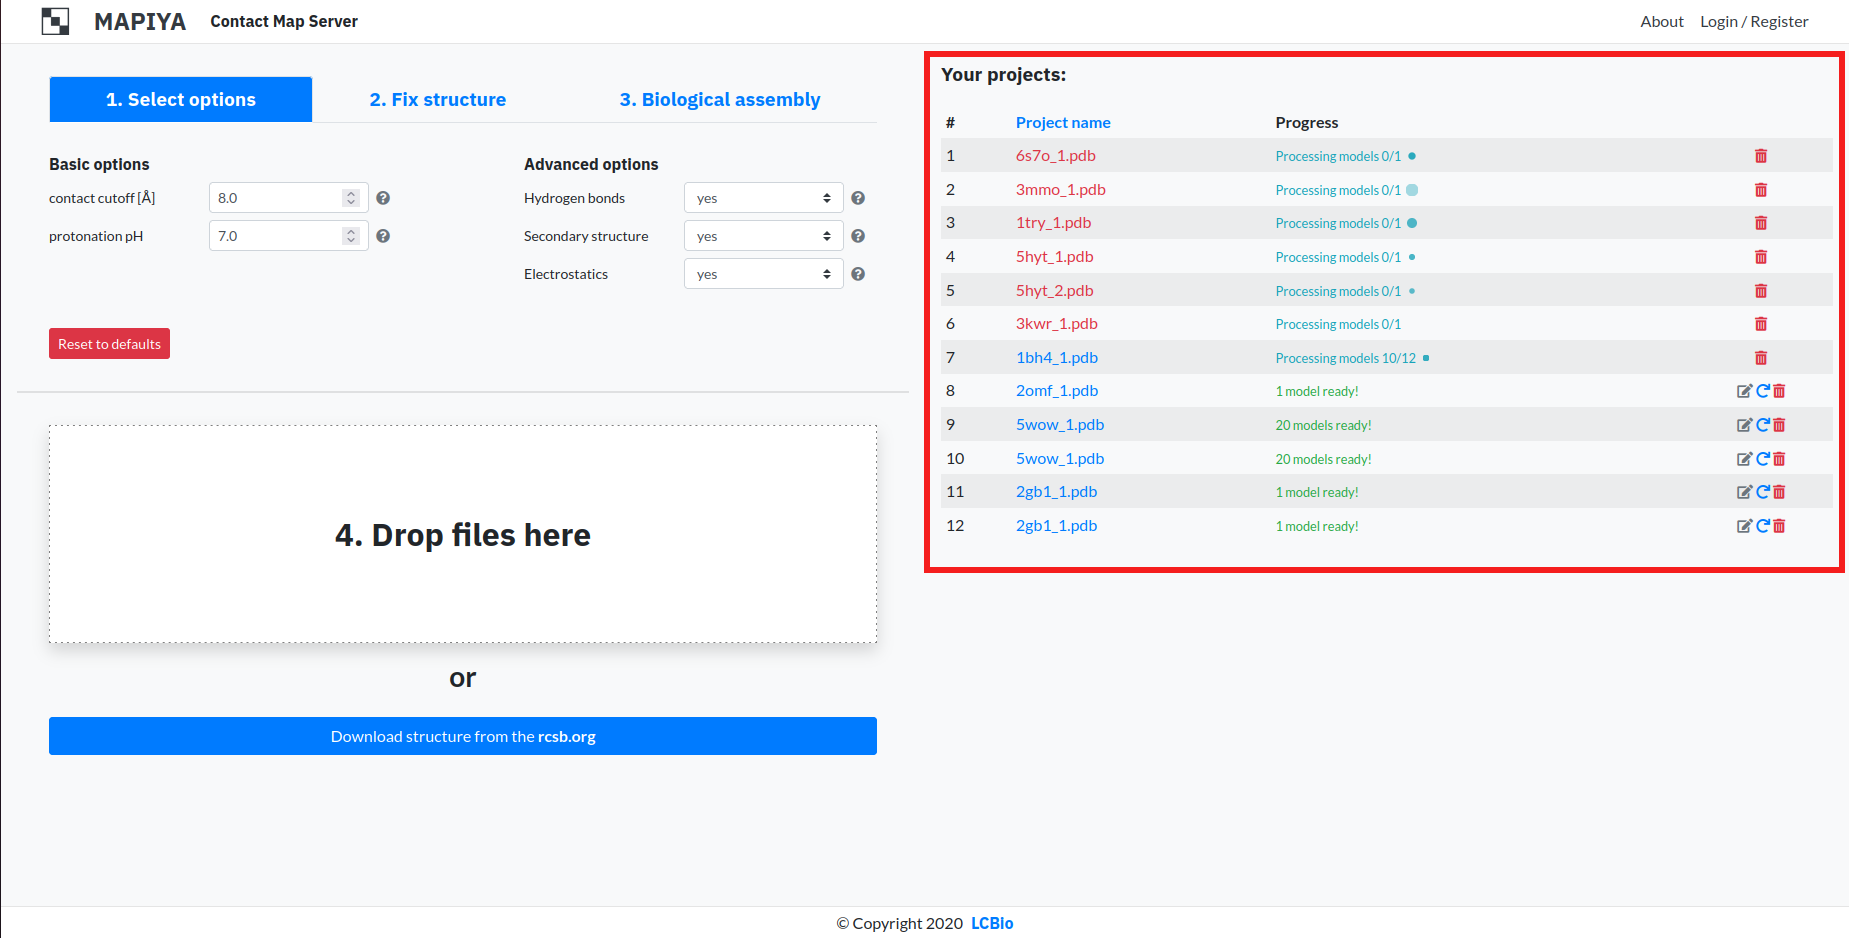
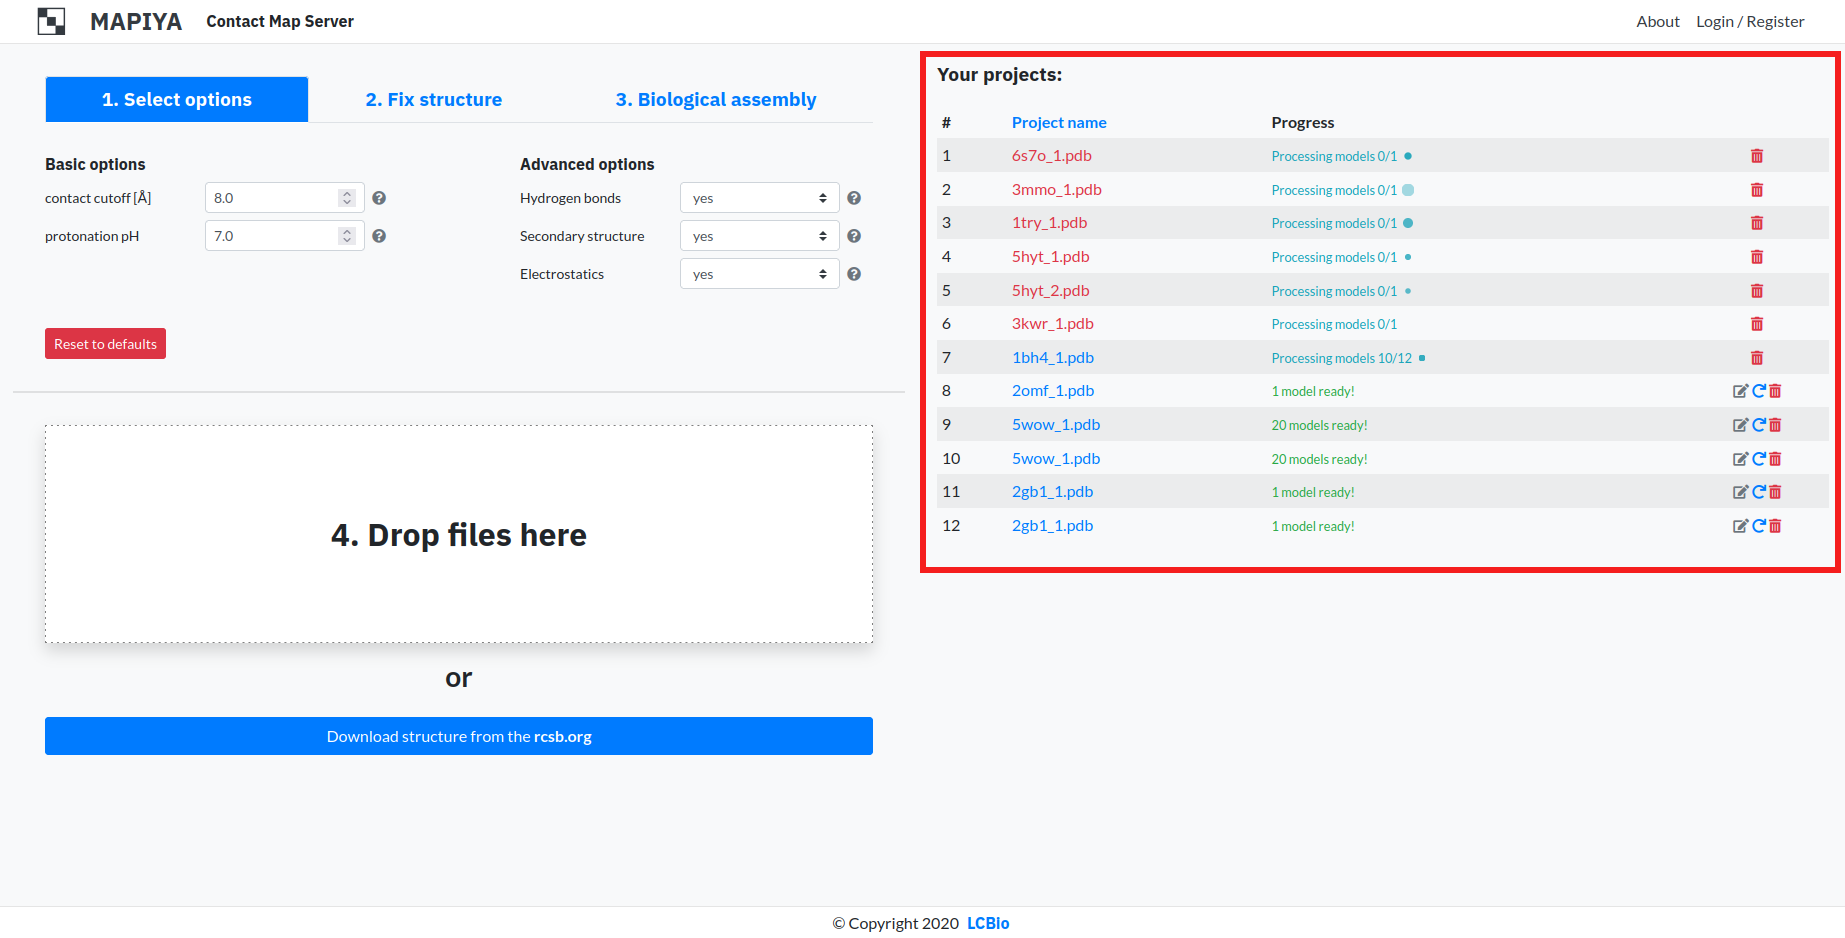
Added 'See About page'.

diff --git a/mapserver/static/css/about.css b/mapserver/static/css/about.css
@@ -1,6 +1,6 @@
 .about-container {
 /*    height: calc(100vh - 5rem);*/
-    margin: 0 10vw;
+    margin-inline: auto;
     background-color: white;
 }
 

diff --git a/mapserver/forms/tooltips.py b/mapserver/forms/tooltips.py
@@ -13,7 +13,11 @@ TOOLTIPS = {
     'protonation_ph': {
         'title': 'Protonation pH',
         'body': '''
-            Set the pH value for the modeled environment. The value can range between 0 and 14.
+            Set the pH value for the modeled environment. The value can range between 0 and 14. The protonation pH is 
+            used to define the environmental conditions for structure repair (e.g., selecting the protonation
+            state of a residue when adding hydrogens or adding environment) and electrostatic analysis performed (e.g., 
+            calculating electrostatic potential). The protonation pH can be adjusted only before submitting the job to a queue.
+            If a change of the pH value is needed, the user should resubmit or create a new Mapiya project.
         ''',
     },
     'hydrogen_bonds': {

diff --git a/mapserver/forms/options_form.py b/mapserver/forms/options_form.py
@@ -277,10 +277,17 @@ class OptionsForm(forms.Form):
             css_class='form-column-wrapper'
         )
 
-        submit_button = layouts.ButtonLink(
+        submit_button = layout.Div(
+            layouts.ButtonLink(
             href=reverse('reset-options'),
             text='Reset to defaults',
             css_class='btn btn-danger btn-sm'
+            ),
+            layout.Div(
+                layout.HTML('<label>For more info see <a href="{% url "about" %}">About page</a></label>'),
+                css_class='text-nowrap',
+                style="margin-right: 3rem; margin-left: 0rem; white-space: nowrap"),
+            css_class='d-flex justify-content-between align-items-center flex-wrap'
         )
 
         tab1_header = '1. Select options'
